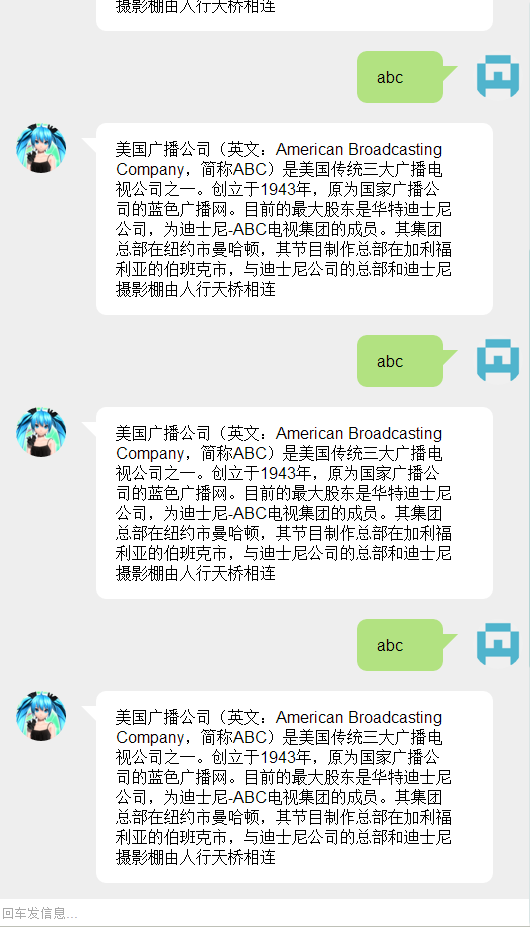
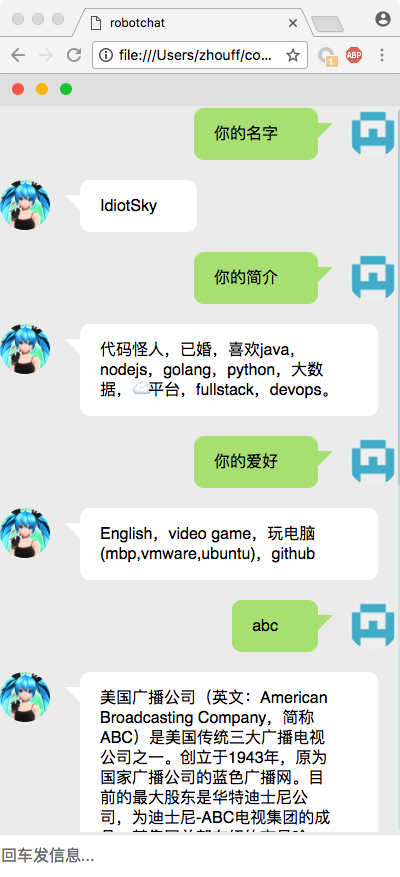
add mac style header bar

diff --git a/static/style.css b/static/style.css
@@ -24,12 +24,44 @@ body {
   background-color: rgba(25, 147, 147, 0.2);
 }
 
+.headbar {
+  height: 32px;
+  background-color: #E3E3E3;
+  padding: 0 12px;
+  border-top-left-radius: 3px;
+  border-top-right-radius: 3px;
+}
+
+.headbar-btns{
+  line-height: 32px;
+}
+
+.headbar-btn {
+  display: inline-block;
+  width: 12px;
+  height: 12px;
+  border-radius: 50%;
+  background-color: #eee;
+  margin-right: 8px;
+}
+
+.headbar-btn-red {
+  background-color: #FF5F57;
+}
+.headbar-btn-yellow {
+  background-color: #FFBD2E;
+}
+.headbar-btn-green {
+  background-color: #28CA42;
+}
+
+
 .chat-thread {
   margin: 5px auto 45px auto;
   padding: 0 20px 0 0;
   list-style: none;
   position: absolute;
-  top:0px;
+  top:29px;
   bottom: 0px;
   overflow-y: auto;
   overflow-x: hidden;

diff --git a/index.html b/index.html
@@ -11,13 +11,19 @@
 
 <body>
 
-<div>  
+<div class="container">
+<div class="headbar">
+		<span class="headbar-btns">
+			<span class="headbar-btn headbar-btn-red"></span>
+			<span class="headbar-btn headbar-btn-yellow"></span>
+			<span class="headbar-btn headbar-btn-green"></span>
+		</span>
+</div>	
 <ul class="chat-thread">
 </ul>
-
-</div>
 <div class="msg-container">
 	<input type="text" class="msg" placeholder="回车发信息..." />
+</div>
 </div>
 <script src="static/jquery.js"></script>
 <script>
